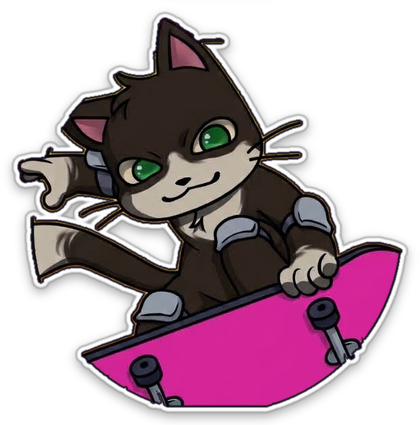
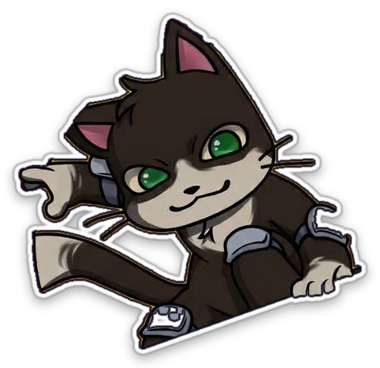
Mimosa without his skateboard; 'Retour au quartier' button on every page; header reads Roulettes Club

diff --git a/index.html b/index.html
@@ -49,6 +49,8 @@ header{position:sticky;top:env(safe-area-inset-top,0px);z-index:10;background:rg
 .nav{display:flex;align-items:center;justify-content:space-between;gap:16px;padding-block:10px}
 .brand{display:flex;align-items:center;gap:10px;text-decoration:none;font-family:var(--display);font-size:1rem;line-height:1}
 .brand img{width:44px;height:44px}
+.backq{display:inline-flex;align-items:center;gap:6px;margin-right:auto;padding:8px 16px 8px 11px;border-radius:999px;background:#ffd23f;color:#150d2e;font-family:var(--display);font-size:.86rem;line-height:1;white-space:nowrap;text-decoration:none;border:2px solid #150d2e;box-shadow:0 3px 0 #ff4fa8;transition:transform .15s}.backq:hover{transform:translateY(-2px)}.backq:active{transform:translateY(2px);box-shadow:0 1px 0 #ff4fa8}.backq svg{width:16px;height:16px;flex:none}body[data-page=accueil] .backq{display:none}
+@media (max-width:640px){body:not([data-page=accueil]) .brand{display:none}.backq{font-size:.7rem;padding:7px 11px 7px 8px;gap:4px}.backq svg{width:13px;height:13px}}
 .nav ul{display:flex;gap:4px;list-style:none;margin:0;padding:0;flex-wrap:wrap}
 .nav a.link{display:block;text-decoration:none;font-weight:700;font-size:.92rem;padding:8px 9px;white-space:nowrap;border-radius:999px;color:var(--muted)}
 .nav a.link:hover,.nav a.link.on{color:var(--night);background:var(--cyan)}
@@ -489,7 +491,8 @@ body.noscroll{overflow:hidden}
 <div class="stripe" aria-hidden="true"><i></i><i></i><i></i></div>
 <header>
   <nav class="wrap nav" aria-label="Navigation principale">
-    <a class="brand" href="#accueil"><img src="logo-roulettes.png?v=2" alt=""><span>Roulettes</span></a>
+    <a class="brand" href="#accueil"><img src="logo-roulettes.png?v=2" alt=""><span>Roulettes Club</span></a>
+    <a class="backq" href="#accueil"><svg viewBox="0 0 24 24" fill="none" stroke="currentColor" stroke-width="3.2" stroke-linecap="round" stroke-linejoin="round" aria-hidden="true"><path d="M15 5l-7 7 7 7"/></svg>Retour au quartier</a>
     <ul>
       <li><a class="link" href="#accueil">Accueil</a></li>
       <li><a class="link" href="#club">Club</a></li>
@@ -1767,7 +1770,7 @@ document.querySelectorAll('.sizes').forEach(function(g){g.addEventListener('clic
     awning(x+12,160,340,'#3ddcf0','#ffe14d');awning(x+w-176,160,340,'#3ddcf0','#ffe14d');
     // door with the vendor cat behind the glass
     ctx.fillStyle='#0f2c40';ctx.fillRect(x+w/2-40,372,80,188);ctx.fillStyle='#bfe6f0';ctx.fillRect(x+w/2-32,380,64,170);
-    var mi=window.RLMimosa&&RLMimosa('cap');if(mi&&mi.complete&&mi.naturalWidth){ctx.save();ctx.beginPath();ctx.rect(x+w/2-32,380,64,170);ctx.clip();ctx.drawImage(mi,x+w/2-36,474,72,71);ctx.restore()}else if(window.RL){ctx.save();ctx.beginPath();ctx.rect(x+w/2-32,380,64,170);ctx.clip();RL.draw(ctx,OLLIE,x+w/2+2,560,.72,t,true);ctx.restore()}
+    var mi=window.RLMimosa&&RLMimosa('cap');if(mi&&mi.complete&&mi.naturalWidth){ctx.save();ctx.beginPath();ctx.rect(x+w/2-32,380,64,170);ctx.clip();ctx.drawImage(mi,x+w/2-36,476,72,70);ctx.restore()}else if(window.RL){ctx.save();ctx.beginPath();ctx.rect(x+w/2-32,380,64,170);ctx.clip();RL.draw(ctx,OLLIE,x+w/2+2,560,.72,t,true);ctx.restore()}
     ctx.fillStyle='rgba(255,255,255,.3)';poly([x+w/2-32,380,x+w/2-12,380,x+w/2-32,430]);
     ctx.fillStyle='#ff4fa8';rr(x+w/2-26,452,52,18,4);ctx.fill();txt('OUVERT',x+w/2,465,'700 11px Space Grotesk, sans-serif','#fff');
   }
@@ -2076,7 +2079,7 @@ function rlScene(cv,W,H,draw,hit,click){
   function inBox(p,b){return p.x>b.x&&p.x<b.x+b.w&&p.y>b.y&&p.y<b.y+b.h}
 
   function minou(o,x,y){var c=o.ctx,b=Math.sin(o.t*2)*2,mi=window.RLMimosa&&RLMimosa('bow');
-    if(mi&&mi.complete&&mi.naturalWidth)c.drawImage(mi,x-84,y-120+b,168,166);else{
+    if(mi&&mi.complete&&mi.naturalWidth)c.drawImage(mi,x-84,y-112+b,168,163);else{
     c.fillStyle='#151021';o.rr(x-46,y-10+b,92,90,24);c.fill();c.fillStyle='#fbf4e6';o.poly([x-12,y-8+b,x+12,y-8+b,x,y+34+b]);c.fillStyle='#ff4fa8';o.poly([x-16,y-6+b,x,y+2+b,x-16,y+10+b]);o.poly([x+16,y-6+b,x,y+2+b,x+16,y+10+b]);
     c.fillStyle='#9a7e5e';o.circ(x,y-44+b,44);o.poly([x-40,y-62+b,x-34,y-108+b,x-6,y-84+b]);o.poly([x+40,y-62+b,x+34,y-108+b,x+6,y-84+b]);
     c.strokeStyle='#4a3a2a';c.lineWidth=5;c.lineCap='round';[[-14,-84,-9,-68],[0,-88,0,-70],[14,-84,9,-68],[-44,-50,-30,-47],[-43,-38,-30,-38],[44,-50,30,-47],[43,-38,30,-38]].forEach(function(l){c.beginPath();c.moveTo(x+l[0],y+l[1]+b);c.lineTo(x+l[2],y+l[3]+b);c.stroke()});
@@ -2189,7 +2192,7 @@ function rlScene(cv,W,H,draw,hit,click){
       c.fillStyle=on?'#ffe14d':'#fbf4e6';c.fillRect(x-5,y-5,w+10,w+36);if(im.complete&&im.naturalWidth)c.drawImage(im,im.naturalWidth*.12,im.naturalHeight*.08,im.naturalWidth*.76,im.naturalHeight*.8,x,y,w,w);
       o.txt(sh[1],x+w/2,y+w+22,'15px Bungee, Impact, sans-serif','#150d2e')});
     // counter, register and Ollie
-    var b=Math.sin(t*2)*2,mi=window.RLMimosa&&RLMimosa('cap');if(mi&&mi.complete&&mi.naturalWidth)c.drawImage(mi,968,140+b,224,221);else RL.draw(c,OLLIE,1080,350+b,1.5,t,false);
+    var b=Math.sin(t*2)*2,mi=window.RLMimosa&&RLMimosa('cap');if(mi&&mi.complete&&mi.naturalWidth)c.drawImage(mi,968,150+b,224,217);else RL.draw(c,OLLIE,1080,350+b,1.5,t,false);
     c.fillStyle='#3ddcf0';c.fillRect(900,330,420,14);c.fillStyle='#1d4d6b';c.fillRect(910,344,400,120);c.fillStyle='rgba(255,255,255,.08)';for(var k=0;k<4;k++)c.fillRect(930+k*95,360,70,86);
     c.fillStyle='#150d2e';o.rr(1200,282,90,50,8);c.fill();c.fillStyle='#3fd17a';c.fillRect(1212,292,66,16);c.fillStyle='#ffe14d';c.fillRect(1214,316,62,8);
     var L=IMG['logo-roulettes.png?v=2'];if(L.complete&&L.naturalWidth)c.drawImage(L,1290,170,100,100);
@@ -2410,7 +2413,7 @@ window.RLLoad=function(){if(window.RLD)return RLD.ready;if(!RLLoad.p)RLLoad.p=ne
 <div class="mimosa" id="mimosa" aria-live="polite">
   <div class="mbub" id="mbub"><button type="button" class="mx" aria-label="Fermer la bulle">×</button><p></p><form class="mask"><input type="text" maxlength="200" autocomplete="off" placeholder="Pose-moi une question…" aria-label="Ta question"><button type="submit" aria-label="Envoyer">➤</button></form></div>
   <button type="button" class="mcat" aria-label="Mimosa, le chat du club : un conseil ?">
-    <img class="mimg" src="mimosa.png?v=1" alt="" width="420" height="414">
+    <img class="mimg" src="mimosa.png?v=2" alt="" width="380" height="368">
     <canvas class="lau" width="236" height="300" hidden></canvas>
   </button>
 </div>
@@ -2450,7 +2453,7 @@ window.RLLoad=function(){if(window.RLD)return RLD.ready;if(!RLLoad.p)RLLoad.p=ne
     if(best)return best;var a=window.RLAsk?RLAsk(q):'';return a||'Hmm, ça je ne sais pas encore… Écris-nous sur <a href="#contact">Contact</a>, on te répond vite !'};
   // the guide's picture, reused in the canvas scenes (shop counter, bar)
   var CACHE={};
-  var MIM=new Image();MIM.src='mimosa.png?v=1';window.RLMimosa=function(){return MIM};
+  var MIM=new Image();MIM.src='mimosa.png?v=2';window.RLMimosa=function(){return MIM};
   function drawLau(){if(!window.RL)return;var co=RL.chars.filter(function(c){return c.info==='Coach'})[0];if(!co)return;var x=lau.getContext('2d');x.clearRect(0,0,236,300);RL.draw(x,Object.assign({},co,{noBoard:1}),118,292,1.6,.3,false)}
   var page='',i=0,closed={};try{closed=JSON.parse(sessionStorage.getItem('rl-mimosa')||'{}')}catch(e){}
   function show(){var l=TIPS[page]||TIPS.accueil;p.innerHTML=l[i%l.length];bub.hidden=false;bub.style.animation='none';void bub.offsetWidth;bub.style.animation=''}

diff --git a/espace.html b/espace.html
@@ -84,7 +84,7 @@ dialog::backdrop{background:rgba(8,4,20,.75)}
 </head>
 <body>
 <header class="top">
-  <a class="brand" href="./"><img src="logo-roulettes.png?v=2" alt="">Roulettes</a>
+  <a class="brand" href="./"><img src="logo-roulettes.png?v=2" alt="">Roulettes Club</a>
   <div class="who" id="who"></div>
 </header>
 <main class="wrap" id="main"><p class="muted">Chargement…</p></main>
